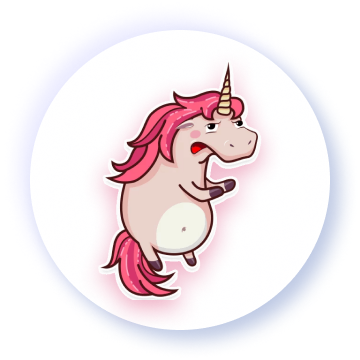
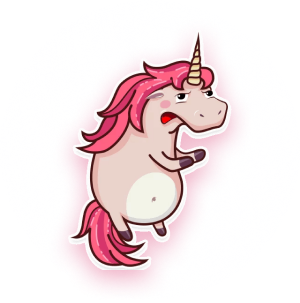
Темная тема, временный коммит

diff --git a/packages/client/src/scss/base/theme/_dark.scss b/packages/client/src/scss/base/theme/_dark.scss
@@ -1,0 +1,83 @@
+.theme-dark {
+  color: #b5c1db;
+  background: url('@/assets/images/app-bg-dark.png') center / 100% 103% no-repeat;
+
+  @include down(768px) {
+    background-image: url('@/assets/images/app-bg-mobile-dark.png');
+  }
+
+  &:fullscreen::backdrop {
+    background: url('@/assets/images/app-bg-dark.png') center / 100% 103% no-repeat;
+
+    @include down(768px) {
+      background-image: url('@/assets/images/app-bg-mobile-dark.png');
+    }
+  }
+
+  .intro__image-wrap,
+  .winner__image-wrap,
+  .server-error__image-wrap,
+  .not-found__image-wrap {
+    box-shadow: -10px -10px 20px 0px rgba(38, 22, 86, 1),  10px 10px 20px 0px rgba(24, 68, 108, 1);
+  }
+  
+  .modal__body   {
+    filter: invert(1) hue-rotate(175deg);
+    color: #050f40;
+  }
+
+  .button {
+    color: $dark;
+    box-shadow: $button-pressed-shadow;
+    filter: invert(1) hue-rotate(175deg);
+
+    &:hover,
+    &--active {
+      box-shadow: none;
+
+      &::before {
+        opacity: 1;
+        box-shadow: $button-shadow;
+      }
+    }
+
+    &--disabled, &[disabled] {
+      box-shadow: none;
+      background: #9aa9cd;
+    }
+  }
+
+  .score-in-round__info, .score-in-round__text, .score-in-round__next-team {
+    color: #485ba5;
+  }
+
+  .team-cards__item-label, .dictionary-cards__item-label {
+    color: $dark;
+    font-weight: 700;
+  }
+
+  .buttons-navigation__link {
+    background-color: rgba(32, 2, 2, 0.05) !important;
+    box-shadow: 4px 4px 10px 0px rgb(178 193 240 / 70%);
+    filter: invert(1) hue-rotate(175deg);
+    
+    &:hover,
+    &:focus,
+    &:active {
+      box-shadow: none;
+
+      &::before {
+        opacity: 1;
+        box-shadow: 10px 10px 20px -10px rgb(178 193 240 / 90%) inset;
+      }
+    }
+  }
+
+  .score-in-round__command {
+    box-shadow: 2px 2px 4px rgb(114 142 171 / 10%), -6px -6px 20px #e9ebfb, 4px 4px 20px rgb(111 140 176 / 41%);
+  }
+
+  .dictionary-cards__item-label--hard {
+    background: #ffb100;
+  }
+}

diff --git a/packages/client/src/scss/base/_scaffolding.scss b/packages/client/src/scss/base/_scaffolding.scss
@@ -1,14 +1,7 @@
 html {
   box-sizing: border-box;
-  background: url('@/assets/images/app-bg.png') center / 100% 103% no-repeat;
   overflow-x: hidden;
-
-  @include down(768px) {
-    background-image: url('@/assets/images/app-bg-mobile.png');
-  }
 }
-
-
 
 *,
 *::before,
@@ -31,6 +24,11 @@ body {
   color: $text-dark;
   font-size: 18px;
   line-height: 1;
+  background: url('@/assets/images/app-bg.png') center / 100% 103% no-repeat;
+
+  @include down(768px) {
+    background-image: url('@/assets/images/app-bg-mobile.png');
+  }
 }
 
 a {

diff --git a/packages/client/src/App.tsx b/packages/client/src/App.tsx
@@ -21,7 +21,7 @@ import {
   NotFoundPage,
   RoundEnd,
 } from './pages'
-import { PageNavigation } from './components'
+import { PageNavigation, FullscreenBtn } from './components'
 
 import './scss/style.scss';
 import { getUserApi } from './services/store/user';
@@ -45,6 +45,7 @@ export const App: React.FC = () => {
     <div className="app">
       <Provider store={store}>
       <Router>
+        <FullscreenBtn />
         <PageNavigation />
         <Routes>
           <Route path="/" element={<Main />} />

diff --git a/packages/client/src/components/modal/modal.scss b/packages/client/src/components/modal/modal.scss
@@ -6,7 +6,7 @@
   left: 0;
   top: 0;
   width: 100%;
-  height: 100%;
+  height: var(--app-height);
   display: flex;
   justify-content: center;
   align-items: center;
@@ -36,9 +36,9 @@
 .modal__overlay {
   background: rgba(33, 43, 121, 0.6);
   width: 100%;
-  height: 100%;
+  height: var(--app-height);
   cursor: pointer;
-  position: absolute;
+  position: fixed;
   top: 0;
   left: 0;
   opacity: 0;

diff --git a/packages/client/src/components/avatar/avatar.tsx b/packages/client/src/components/avatar/avatar.tsx
@@ -3,7 +3,7 @@ import { useToggle } from '../../services/hooks'
 import { EditAvatarModal } from '../index'
 
 import './avatar.scss'
-import logo from '../../assets/images/logo-round-shadow.png'
+import logo from '../../assets/images/logo-round.png'
 import editIcon from '../../assets/images/edit.svg'
 
 export const Avatar: React.FC = (): JSX.Element => {

diff --git a/packages/client/src/scss/base/_variables.scss b/packages/client/src/scss/base/_variables.scss
@@ -90,6 +90,9 @@ $icon-shadow:
   2px 2px 4px rgba(114, 142, 171, 0.1), -6px -6px 20px #ffffff,
   4px 4px 20px rgba(111, 140, 176, 0.41);
 $avatar-shadow: 10px 10px 20px #bfcae4, -10px -10px 20px #ebebff;
+$logo-round-shadow: 
+  -10px -10px 20px 0px rgba(235, 235, 255, 1),
+  10px 10px 20px 0px rgba(191, 202, 228, 1);
 
 // Screen width
 $mobile: 768px;

diff --git a/packages/client/src/components/dictionary-cards/dictionary-cards.scss b/packages/client/src/components/dictionary-cards/dictionary-cards.scss
@@ -1,4 +1,5 @@
 @import './../../scss/base/variables';
+@import './../../scss/base/mixins';
 
 .dictionary-cards {
   display: flex;
@@ -56,4 +57,12 @@
   &--hard {
     background: $hard;
   }
+}
+
+@include down($mobile) {
+  .dictionary-cards {
+    width: calc(100% + 40px);
+    margin: -10px -20px -20px;
+  }
+  
 }

diff --git a/packages/client/index.html b/packages/client/index.html
@@ -39,7 +39,7 @@
   <meta name="msapplicftion-square150x150logo" content="/mstile-150x150.png"/>
   <meta name="msapplication-square310x310logo" content="/mstile-310x310.png"/>
 </head>
-<body>
+<body class="theme-dark">
 <div id="root"></div>
 <script type="module" src="./src/main.tsx"></script>
 </body>

diff --git a/packages/client/src/components/intro/intro.tsx b/packages/client/src/components/intro/intro.tsx
@@ -1,6 +1,6 @@
 import React from 'react'
 import './intro.scss'
-import logo from './../../assets/images/logo-round-shadow.png'
+import logo from './../../assets/images/logo-round.png'
 
 export interface IIntro {
   small?: boolean

diff --git a/packages/client/src/components/server-error/server-error.scss b/packages/client/src/components/server-error/server-error.scss
@@ -29,6 +29,8 @@
 .server-error__image-wrap {
   max-width: 300px;
   margin-bottom: 50px;
+  border-radius: 50%;
+  box-shadow: $logo-round-shadow;
 }
 
 .server-error__subtitle {

diff --git a/packages/client/src/scss/style.scss b/packages/client/src/scss/style.scss
@@ -1,6 +1,7 @@
 // Base styles
 @import 'base/variables';
 @import 'base/mixins';
+@import 'base/theme/dark';
 @import 'base/app';
 @import 'base/fonts';
 @import 'base/print';

diff --git a/packages/client/src/components/intro/intro.scss b/packages/client/src/components/intro/intro.scss
@@ -29,6 +29,9 @@
 
 .intro__image-wrap {
   max-width: 300px;
+  border-radius: 50%;
+  box-shadow: $logo-round-shadow;
+  margin-bottom: 20px;
 }
 
 @include down($mobile) {
